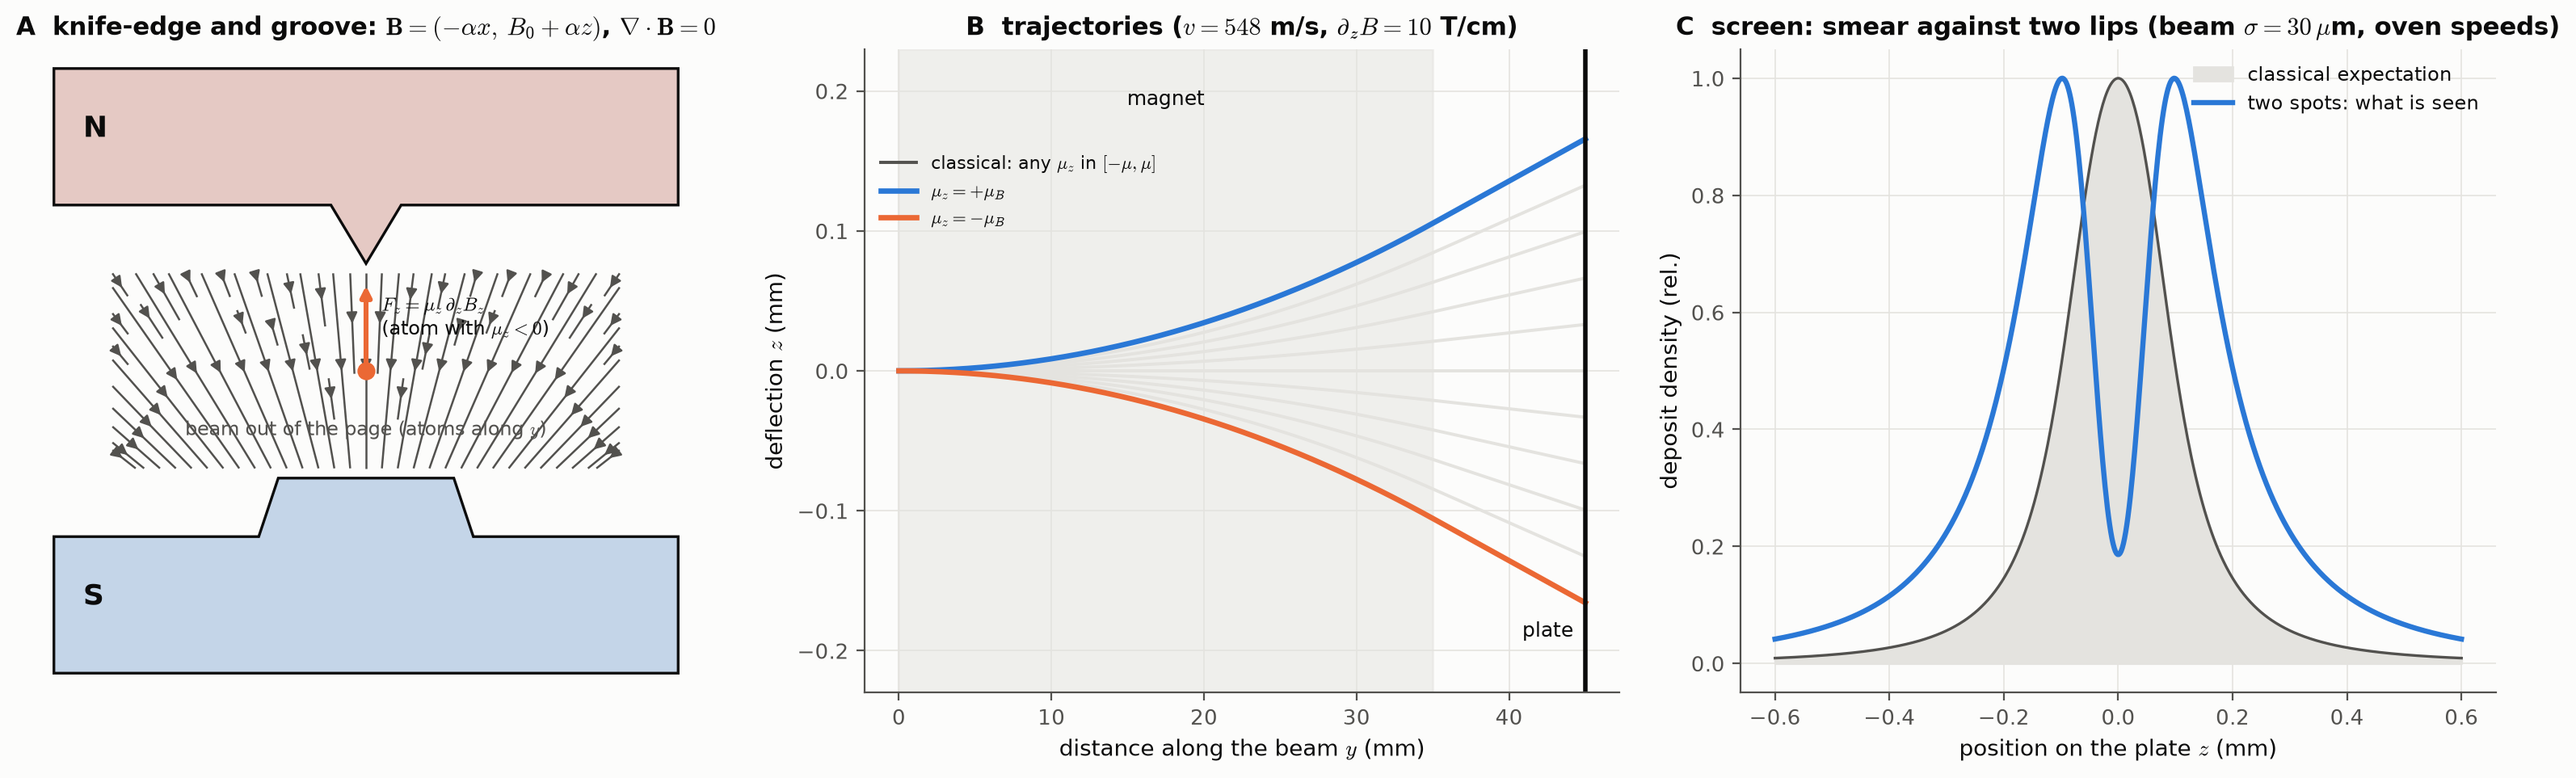
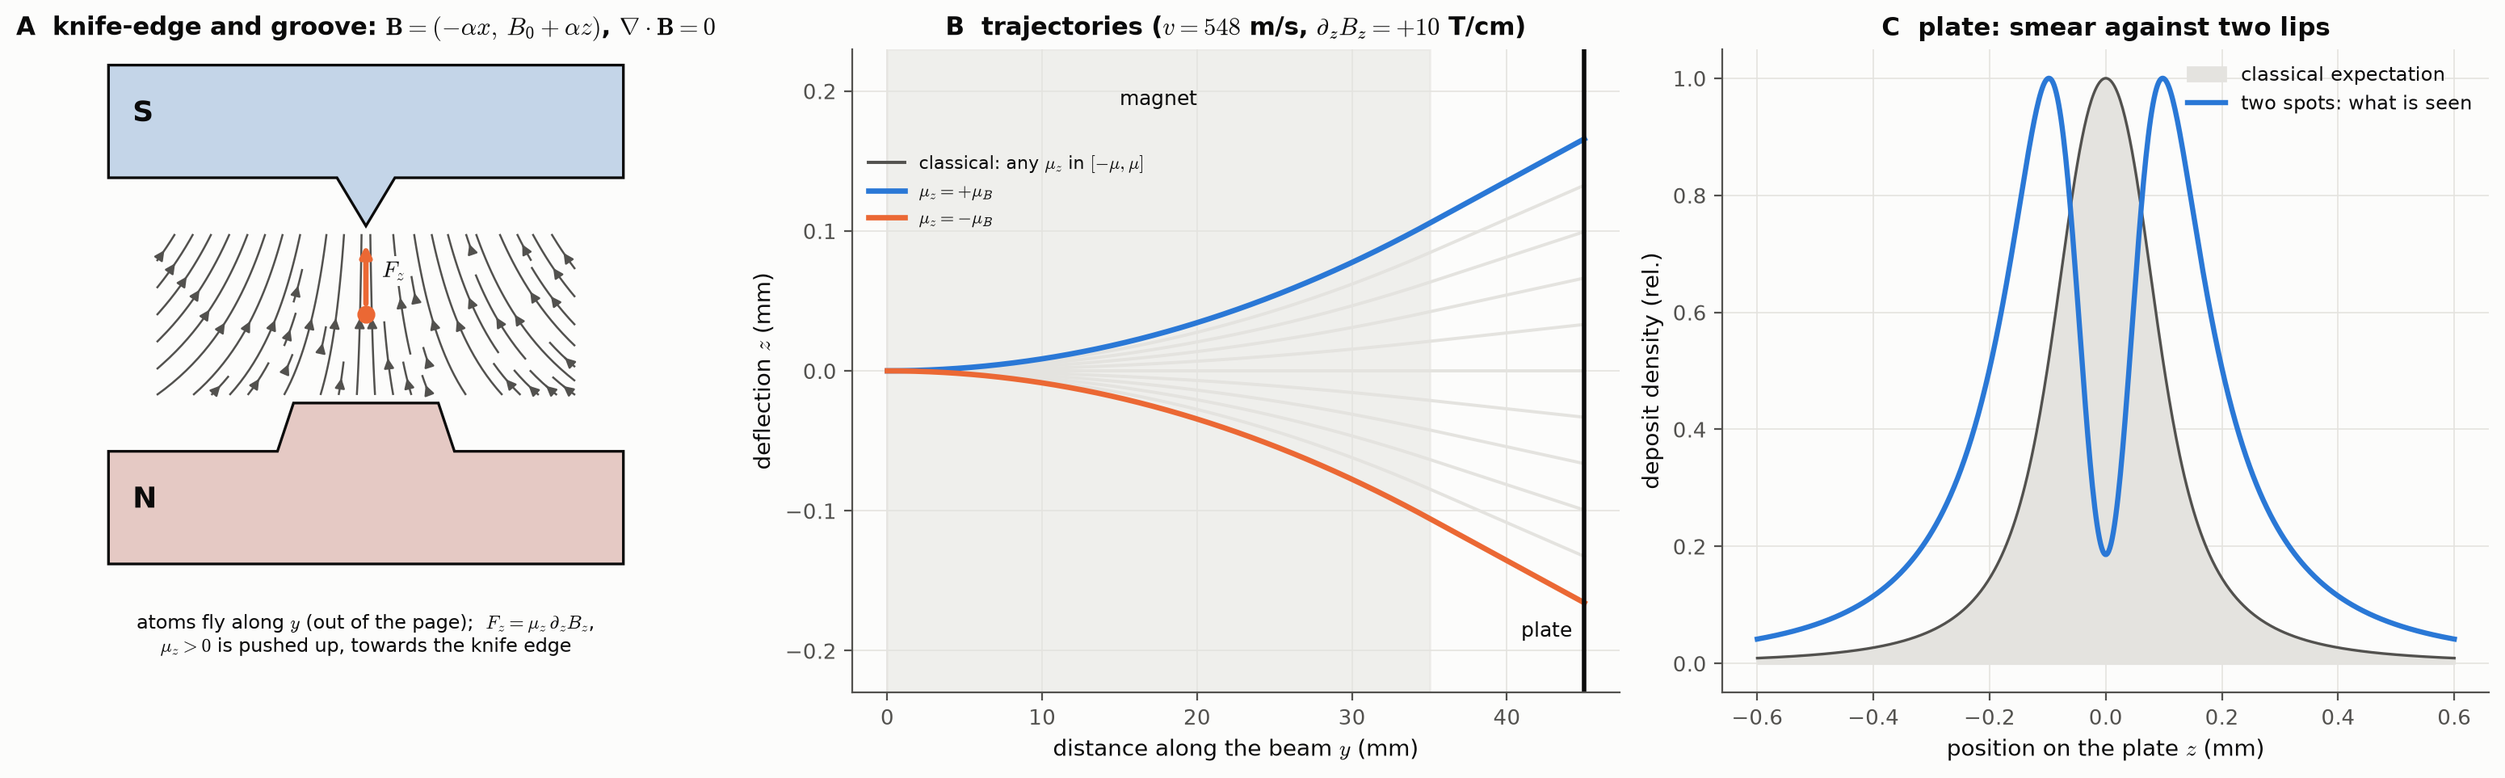
notes: 2026-10-29 05:25

diff --git a/scripts/fig_qm09.py b/scripts/fig_qm09.py
@@ -70,20 +70,20 @@ def screen_pattern(z, classical, sigma_beam=3.0e-5, nv=400):
 
 def fig_apparatus():
     fig = plt.figure(figsize=(15.8, 4.9))
-    # A: magnet cross-section with field lines
+    # A: magnet cross-section with field lines (S pole with the knife edge on top, N below: B points up, dB_z/dz > 0)
     a = fig.add_subplot(1, 3, 1)
-    a.add_patch(Polygon([[-1.6, 1.55], [1.6, 1.55], [1.6, 0.85], [0.18, 0.85], [0.0, 0.55], [-0.18, 0.85], [-1.6, 0.85]], closed=True, fc="#e5c9c4", ec=INK, lw=1.2))
-    a.add_patch(Polygon([[-1.6, -1.55], [1.6, -1.55], [1.6, -0.85], [0.55, -0.85], [0.45, -0.55], [-0.45, -0.55], [-0.55, -0.85], [-1.6, -0.85]], closed=True, fc="#c4d5e8", ec=INK, lw=1.2))
-    a.text(-1.45, 1.2, "N", fontsize=13, weight="bold"); a.text(-1.45, -1.2, "S", fontsize=13, weight="bold")
+    a.add_patch(Polygon([[-1.6, 1.55], [1.6, 1.55], [1.6, 0.85], [0.18, 0.85], [0.0, 0.55], [-0.18, 0.85], [-1.6, 0.85]], closed=True, fc="#c4d5e8", ec=INK, lw=1.2))
+    a.add_patch(Polygon([[-1.6, -1.55], [1.6, -1.55], [1.6, -0.85], [0.55, -0.85], [0.45, -0.55], [-0.45, -0.55], [-0.55, -0.85], [-1.6, -0.85]], closed=True, fc="#e5c9c4", ec=INK, lw=1.2))
+    a.text(-1.45, 1.2, "S", fontsize=13, weight="bold"); a.text(-1.45, -1.2, "N", fontsize=13, weight="bold")
     X, Z = np.meshgrid(np.linspace(-1.3, 1.3, 40), np.linspace(-0.5, 0.5, 40))
     alpha, B0 = 0.7, 1.0
-    Bx, Bz = -alpha * X, -(B0 + alpha * Z)               # field points from N (top) to S (bottom): -z
-    a.streamplot(X, Z, Bx, Bz, color=MUTED, linewidth=0.9, density=1.1, arrowsize=1.0)
+    Bx, Bz = -alpha * X, (B0 + alpha * Z)                # B_z grows toward the knife edge; div B = -alpha + alpha = 0
+    a.streamplot(X, Z, Bx, Bz, color=MUTED, linewidth=0.9, density=0.8, arrowsize=0.9)
     a.plot([0], [0], "o", color=ORANGE, ms=7, zorder=5)
-    a.annotate("", xy=(0, 0.46), xytext=(0, 0.02), arrowprops=dict(arrowstyle="-|>", color=ORANGE, lw=2.2))
-    a.text(0.08, 0.27, "$F_z=\\mu_z\\,\\partial_zB_z$\n(atom with $\\mu_z<0$)", fontsize=8.5, color=INK, va="center")
-    a.text(0.0, -0.33, "beam out of the page (atoms along $y$)", ha="center", fontsize=8.5, color=MUTED)
-    a.set_xlim(-1.65, 1.65); a.set_ylim(-1.65, 1.65); a.set_aspect("equal"); a.set_axis_off()
+    a.annotate("", xy=(0, 0.46), xytext=(0, 0.04), arrowprops=dict(arrowstyle="-|>", color=ORANGE, lw=2.4), zorder=6)
+    a.text(0.1, 0.27, "$F_z$", fontsize=10, color=INK, va="center", bbox=dict(fc=SURFACE, ec="none", pad=1.5), zorder=7)
+    a.text(0, -1.85, "atoms fly along $y$ (out of the page);  $F_z=\\mu_z\\,\\partial_zB_z$,\n$\\mu_z>0$ is pushed up, towards the knife edge", ha="center", va="top", fontsize=8.5, color=INK)
+    a.set_xlim(-1.65, 1.65); a.set_ylim(-2.35, 1.65); a.set_aspect("equal"); a.set_axis_off()
     a.set_title("A  knife-edge and groove: $\\mathbf{B}=(-\\alpha x,\\,B_0+\\alpha z)$, $\\nabla\\cdot\\mathbf{B}=0$")
     # B: trajectories
     b = fig.add_subplot(1, 3, 2)
@@ -105,7 +105,7 @@ def fig_apparatus():
     b.text(L1 * 500, 0.19, "magnet", ha="center", fontsize=9); b.text((L1 + L2) * 1e3 - 0.8, -0.19, "plate", ha="right", fontsize=9)
     b.set_xlabel("distance along the beam $y$ (mm)"); b.set_ylabel("deflection $z$ (mm)")
     b.set_ylim(-0.23, 0.23); b.legend(fontsize=8, loc="upper left", bbox_to_anchor=(0.0, 0.86))
-    b.set_title("B  trajectories ($v=548$ m/s, $\\partial_zB=10$ T/cm)")
+    b.set_title("B  trajectories ($v=548$ m/s, $\\partial_zB_z=+10$ T/cm)")
     # C: screen pattern
     c = fig.add_subplot(1, 3, 3)
     zz = np.linspace(-0.6e-3, 0.6e-3, 600)
@@ -116,7 +116,7 @@ def fig_apparatus():
     c.plot(zz * 1e3, qm, color=BLUE, lw=2.3, label="two spots: what is seen")
     c.set_xlabel("position on the plate $z$ (mm)"); c.set_ylabel("deposit density (rel.)")
     c.legend(fontsize=8.5, loc="upper right")
-    c.set_title("C  screen: smear against two lips (beam $\\sigma=30\\,\\mu$m, oven speeds)")
+    c.set_title("C  plate: smear against two lips")
     fig.tight_layout()
     save(fig, "fig_qm09_apparatus")
 
@@ -127,7 +127,7 @@ def fig_sequential():
     a = fig.add_subplot(1, 3, 1, projection="3d")
     sphere(a)
     arrow3(a, (0, 0, 1), BLUE, label="$|{+z}\\rangle$")
-    arrow3(a, (1, 0, 0), ORANGE, label="$|{+x}\\rangle$ ($\\frac{1}{2}$)")
+    arrow3(a, (1, 0, 0), ORANGE, label="$|{+x}\\rangle$ ($\\frac{1}{2}$)", off=(0.12, 0.0, 0.16))
     arrow3(a, (0, 0, -1), AQUA, label="$|{-z}\\rangle$ ($\\frac{1}{2}$)", off=(0.08, 0.0, -0.18))
     t = np.linspace(0, np.pi / 2, 40)
     a.plot(np.sin(t), 0 * t, np.cos(t), color=ORANGE, lw=1.6, ls="--")
@@ -193,7 +193,7 @@ def fig_dynamics():
         c.axvline(k, color=BLUE, lw=0.8, alpha=0.5)
     c.set_xlabel("spin rotation angle $\\varphi=|\\gamma|B\\ell/v$ in the field arm ($\\pi$ rad)")
     c.set_ylabel("interference intensity (rel.)")
-    c.legend(fontsize=8.3, loc="lower right")
+    c.set_ylim(-0.05, 2.75); c.legend(fontsize=8.3, loc="upper center")
     c.set_title("C  neutron interferometer: maxima every $4\\pi$")
     fig.tight_layout()
     save(fig, "fig_qm09_dynamics")
@@ -205,7 +205,7 @@ def fig_bell_spinj():
     a = ax[0]
     th = np.linspace(0, np.pi, 400)
     a.plot(np.degrees(th), -np.cos(th), color=BLUE, lw=2.4, label="quantum: $E=-\\cos\\theta$")
-    a.plot(np.degrees(th), -1 + 2 * th / np.pi, color=ORANGE, lw=2.2, ls="--", label="best 'local' straight line")
+    a.plot(np.degrees(th), -1 + 2 * th / np.pi, color=ORANGE, lw=2.2, ls="--", label="local model $\\mathrm{sgn}(\\mathbf{a}\\cdot\\lambda)$: $-1+2\\theta/\\pi$")
     a.fill_between(np.degrees(th), -np.cos(th), -1 + 2 * th / np.pi, color=BLUE, alpha=0.10)
     for d in (45, 135):
         a.plot([d], [-math.cos(math.radians(d))], "o", color=BLUE, ms=6)
@@ -217,14 +217,14 @@ def fig_bell_spinj():
     ph = np.linspace(0, 90, 400)
     S = np.abs(3 * np.cos(np.radians(ph)) - np.cos(3 * np.radians(ph)))
     b.plot(ph, S, color=BLUE, lw=2.4, label="quantum $|S|=|3\\cos\\varphi-\\cos3\\varphi|$")
-    b.axhline(2, color=ORANGE, lw=1.8, ls="--"); b.text(2, 2.03, "local hidden variables: $|S|\\le2$", color=INK, fontsize=9, va="bottom")
-    b.axhline(2 * math.sqrt(2), color=MUTED, lw=1.4, ls=":"); b.text(2, 2.86, "Tsirelson: $2\\sqrt2=2.828$", color=INK, fontsize=9, va="bottom")
+    b.axhline(2, color=ORANGE, lw=1.8, ls="--"); b.text(2, 2.03, "local hidden variables: $|S|\\leq 2$", color=INK, fontsize=9, va="bottom")
+    b.axhline(2 * math.sqrt(2), color=MUTED, lw=1.4, ls=":"); b.text(2, 2.86, "Tsirelson: $2\\sqrt{2}=2.828$", color=INK, fontsize=9, va="bottom")
     b.fill_between(ph, 2, S, where=S > 2, color=BLUE, alpha=0.12)
     b.plot([45], [2 * math.sqrt(2)], "o", color=BLUE, ms=7)
     b.set_xlabel("$\\varphi$ (deg): axes at $0,\\,\\varphi,\\,2\\varphi,\\,3\\varphi$"); b.set_ylabel("CHSH $|S|$")
     b.set_ylim(0, 3.2); b.set_xlim(0, 90)
     b.legend(fontsize=8.3, loc="lower center")
-    b.set_title("B  CHSH: violated for $\\varphi$ from $0^\\circ$ to $60^\\circ$")
+    b.set_title("B  CHSH: violated for $0<\\varphi<68.5^\\circ$")
     c = ax[2]
     w = 0.36
     ms = np.array([-1, 0, 1])
@@ -250,24 +250,28 @@ def fig_parallels():
     a = ax[0]
     x = np.logspace(-6.5, 1.0, 400)
     a.semilogx(x, np.tanh(x), color=BLUE, lw=2.4, label="$P=\\tanh(\\mu B/kT)$")
-    a.semilogx(x, x, color=GRID, lw=1.6, ls="--", label="linear (Curie) regime")
-    pts = (("proton 1.5 T, 300 K\n$5\\times10^{-6}$", MU_P * 1.5 / (1.380649e-23 * 300), (3e-6, 0.55)),
-           ("electron 1 T, 300 K\n$2.2\\times10^{-3}$", MU_B * 1.0 / (1.380649e-23 * 300), (2e-4, 0.78)),
-           ("electron 1 T, 4 K\n$0.17$", MU_B * 1.0 / (1.380649e-23 * 4), (0.02, 0.35)),
-           ("electron 10 T, 2 K\n$0.998$", MU_B * 10.0 / (1.380649e-23 * 2), (0.8, 0.3)))
-    for lab, xv, xy in pts:
-        a.plot([xv], [math.tanh(xv)], "o", color=ORANGE, ms=7, zorder=5)
-        a.annotate(lab, (xv, math.tanh(xv)), xytext=xy, fontsize=8.2, arrowprops=dict(arrowstyle="-", color=MUTED))
+    a.semilogx(x, x, color=MUTED, lw=1.2, ls="--", label="linear (Curie) regime $P\\approx\\mu B/kT$")
+    pts = (("1", MU_P * 1.5 / (1.380649e-23 * 300)), ("2", MU_B * 1.0 / (1.380649e-23 * 300)),
+           ("3", MU_B * 1.0 / (1.380649e-23 * 4)), ("4", MU_B * 10.0 / (1.380649e-23 * 2)))
+    for lab, xv in pts:
+        a.plot([xv], [math.tanh(xv)], "o", color=ORANGE, ms=8, zorder=5)
+        if lab == "4":
+            a.text(xv * 0.55, math.tanh(xv) - 0.02, lab, ha="center", va="center", fontsize=10, weight="bold")
+        else:
+            a.text(xv * 1.0, math.tanh(xv) + 0.07, lab, ha="center", fontsize=10, weight="bold")
+    a.text(2e-7, 0.93, "1  proton, 1.5 T, 300 K: $5.1\\times10^{-6}$\n2  electron, 1 T, 300 K: $2.2\\times10^{-3}$\n3  electron, 1 T, 4 K: $0.17$\n4  electron, 10 T, 2 K: $0.998$",
+           fontsize=8.8, va="top", ha="left", bbox=dict(fc=SURFACE, ec=GRID, pad=4))
     a.set_xlabel("$\\mu B/k_BT$"); a.set_ylabel("spin polarisation $P=p_\\uparrow-p_\\downarrow$"); a.set_ylim(-0.02, 1.05)
-    a.legend(fontsize=8.5, loc="lower right")
+    a.legend(fontsize=8.3, loc="center left", bbox_to_anchor=(0.0, 0.36))
     a.set_title("A  a two-level paramagnet in equilibrium")
     b = ax[1]
     LE = np.linspace(0, 2000, 800)
     for s22, col, lab in ((1.0, BLUE, "$\\sin^22\\theta=1.0$"), (0.85, ORANGE, "$\\sin^22\\theta=0.85$")):
         b.plot(LE, s22 * np.sin(1.267 * 2.5e-3 * LE) ** 2, color=col, lw=2.2, label=lab)
-    b.axvline(295 / 0.6, color=MUTED, lw=1.2, ls=":"); b.text(500, 0.06, "$295\\,$km, $0.6\\,$GeV", fontsize=8.5, rotation=90, va="bottom", ha="right")
+    b.axvline(295 / 0.6, color=MUTED, lw=1.2, ls=":")
+    b.text(520, 1.12, "long-baseline beam:\n295 km, 0.6 GeV $=$ 492 km/GeV", fontsize=8.5, va="center")
     b.set_xlabel("$L/E$ (km/GeV)"); b.set_ylabel("flavour-change probability")
-    b.legend(fontsize=8.5, loc="upper right"); b.set_ylim(-0.02, 1.05)
+    b.legend(fontsize=8.5, loc="upper right"); b.set_ylim(-0.02, 1.3)
     b.set_title("B  flavour oscillation $=$ Rabi flopping ($\\Delta m^2=2.5\\times10^{-3}$ eV$^2$)")
     c = ax[2]
     n = np.arange(1, 6)

diff --git a/scripts/qm09_numbers.py b/scripts/qm09_numbers.py
@@ -462,3 +462,37 @@ for n_ in range(1, 6):
     print(f"  n={n_}: {math.sqrt(n_*(n_+2)):.2f} mu_B  (S={n_/2})")
 print("  O2 (two unpaired pi* electrons, triplet): 2.83 mu_B (spin-only); liquid O2 is attracted into the gap of a magnet (F = grad(mu.B), same force law as SG)")
 print(f"SQUID/Josephson: skip. Transmon qubit: ~5 GHz = {H_PL*5e9/K_B*1e3:.0f} mK -> needs a dilution refrigerator")
+
+
+# ================================================================ 13. Extra checks used in the text
+sec("13. Extra checks")
+# (a) plate pattern: peak positions with the oven speed distribution (same model as fig_qm09.py)
+v = np.linspace(150, 1800, 400)
+wv = v ** 3 * np.exp(-m_ag * v ** 2 / (2 * K_B * T_oven)); wv /= wv.sum()
+zmax = 0.5 * a * (L1 / v) ** 2 + a * (L1 / v) * (L2 / v)
+zz = np.linspace(-0.6e-3, 0.6e-3, 1201)
+dens = np.zeros_like(zz)
+for s_ in (-1.0, 1.0):
+    for w_, zm in zip(wv, zmax):
+        dens += w_ * np.exp(-0.5 * ((zz - s_ * zm) / 3e-5) ** 2)
+dens /= dens.max()
+ipk = np.argmax(dens)
+print(f"plate pattern with the oven speed distribution: peaks at z = +-{abs(zz[ipk])*1e3:.3f} mm (vs +-{z_tot*1e3:.3f} mm at v_mp); dip at 0 = {dens[len(zz)//2]:.3f} of the peak")
+print(f"  mean speed of the beam <v> = {math.sqrt(9*math.pi*K_B*T_oven/(8*m_ag)):.1f} m/s, most probable 548 m/s")
+# (b) Bell's simple local model: A = sgn(a.lam), B = -sgn(b.lam), lam uniform on the sphere
+rng = np.random.default_rng(7)
+lam = rng.normal(size=(2_000_000, 3)); lam /= np.linalg.norm(lam, axis=1)[:, None]
+for deg in (0, 45, 90, 135, 180):
+    t = math.radians(deg)
+    Ea = nvec(0.0); Eb = nvec(t)
+    E_loc = -np.mean(np.sign(lam @ Ea) * np.sign(lam @ Eb))
+    print(f"  local model E({deg:3d} deg) = {E_loc:+.4f}   -1+2 theta/pi = {-1+2*t/math.pi:+.4f}")
+print("  with that model the CHSH sum at the optimal angles is exactly |S| = 2 (every term has |E| = 1/2)")
+# (c) CHSH crossing of 2: 2c^3 - 3c + 1 = 0, c = (sqrt3-1)/2
+c_ = (math.sqrt(3) - 1) / 2
+print(f"CHSH |S|=3cos(phi)-cos(3phi) = 2 at cos(phi) = (sqrt3-1)/2 = {c_:.4f}: phi = {math.degrees(math.acos(c_)):.2f} deg")
+# (d) Larmor/Zeeman scale and gradient force on a proton for comparison
+print(f"For comparison: nuclear magneton mu_N = {MU_N:.4e} J/T, mu_B/mu_N = {MU_B/MU_N:.1f} (why NMR is far weaker than ESR)")
+print(f"ratio of Larmor frequencies electron/proton = {GAMMA_E/GAMMA_P:.1f}")
+# (e) Humpty-Dumpty condition: reversing the gradient (kick -dp) restores the overlap: dp_net = 0 -> overlap 1
+print("Reverse the gradient for the same time: net kick 0, packets overlap again, coherence returns (if nothing else recorded the spin)")
